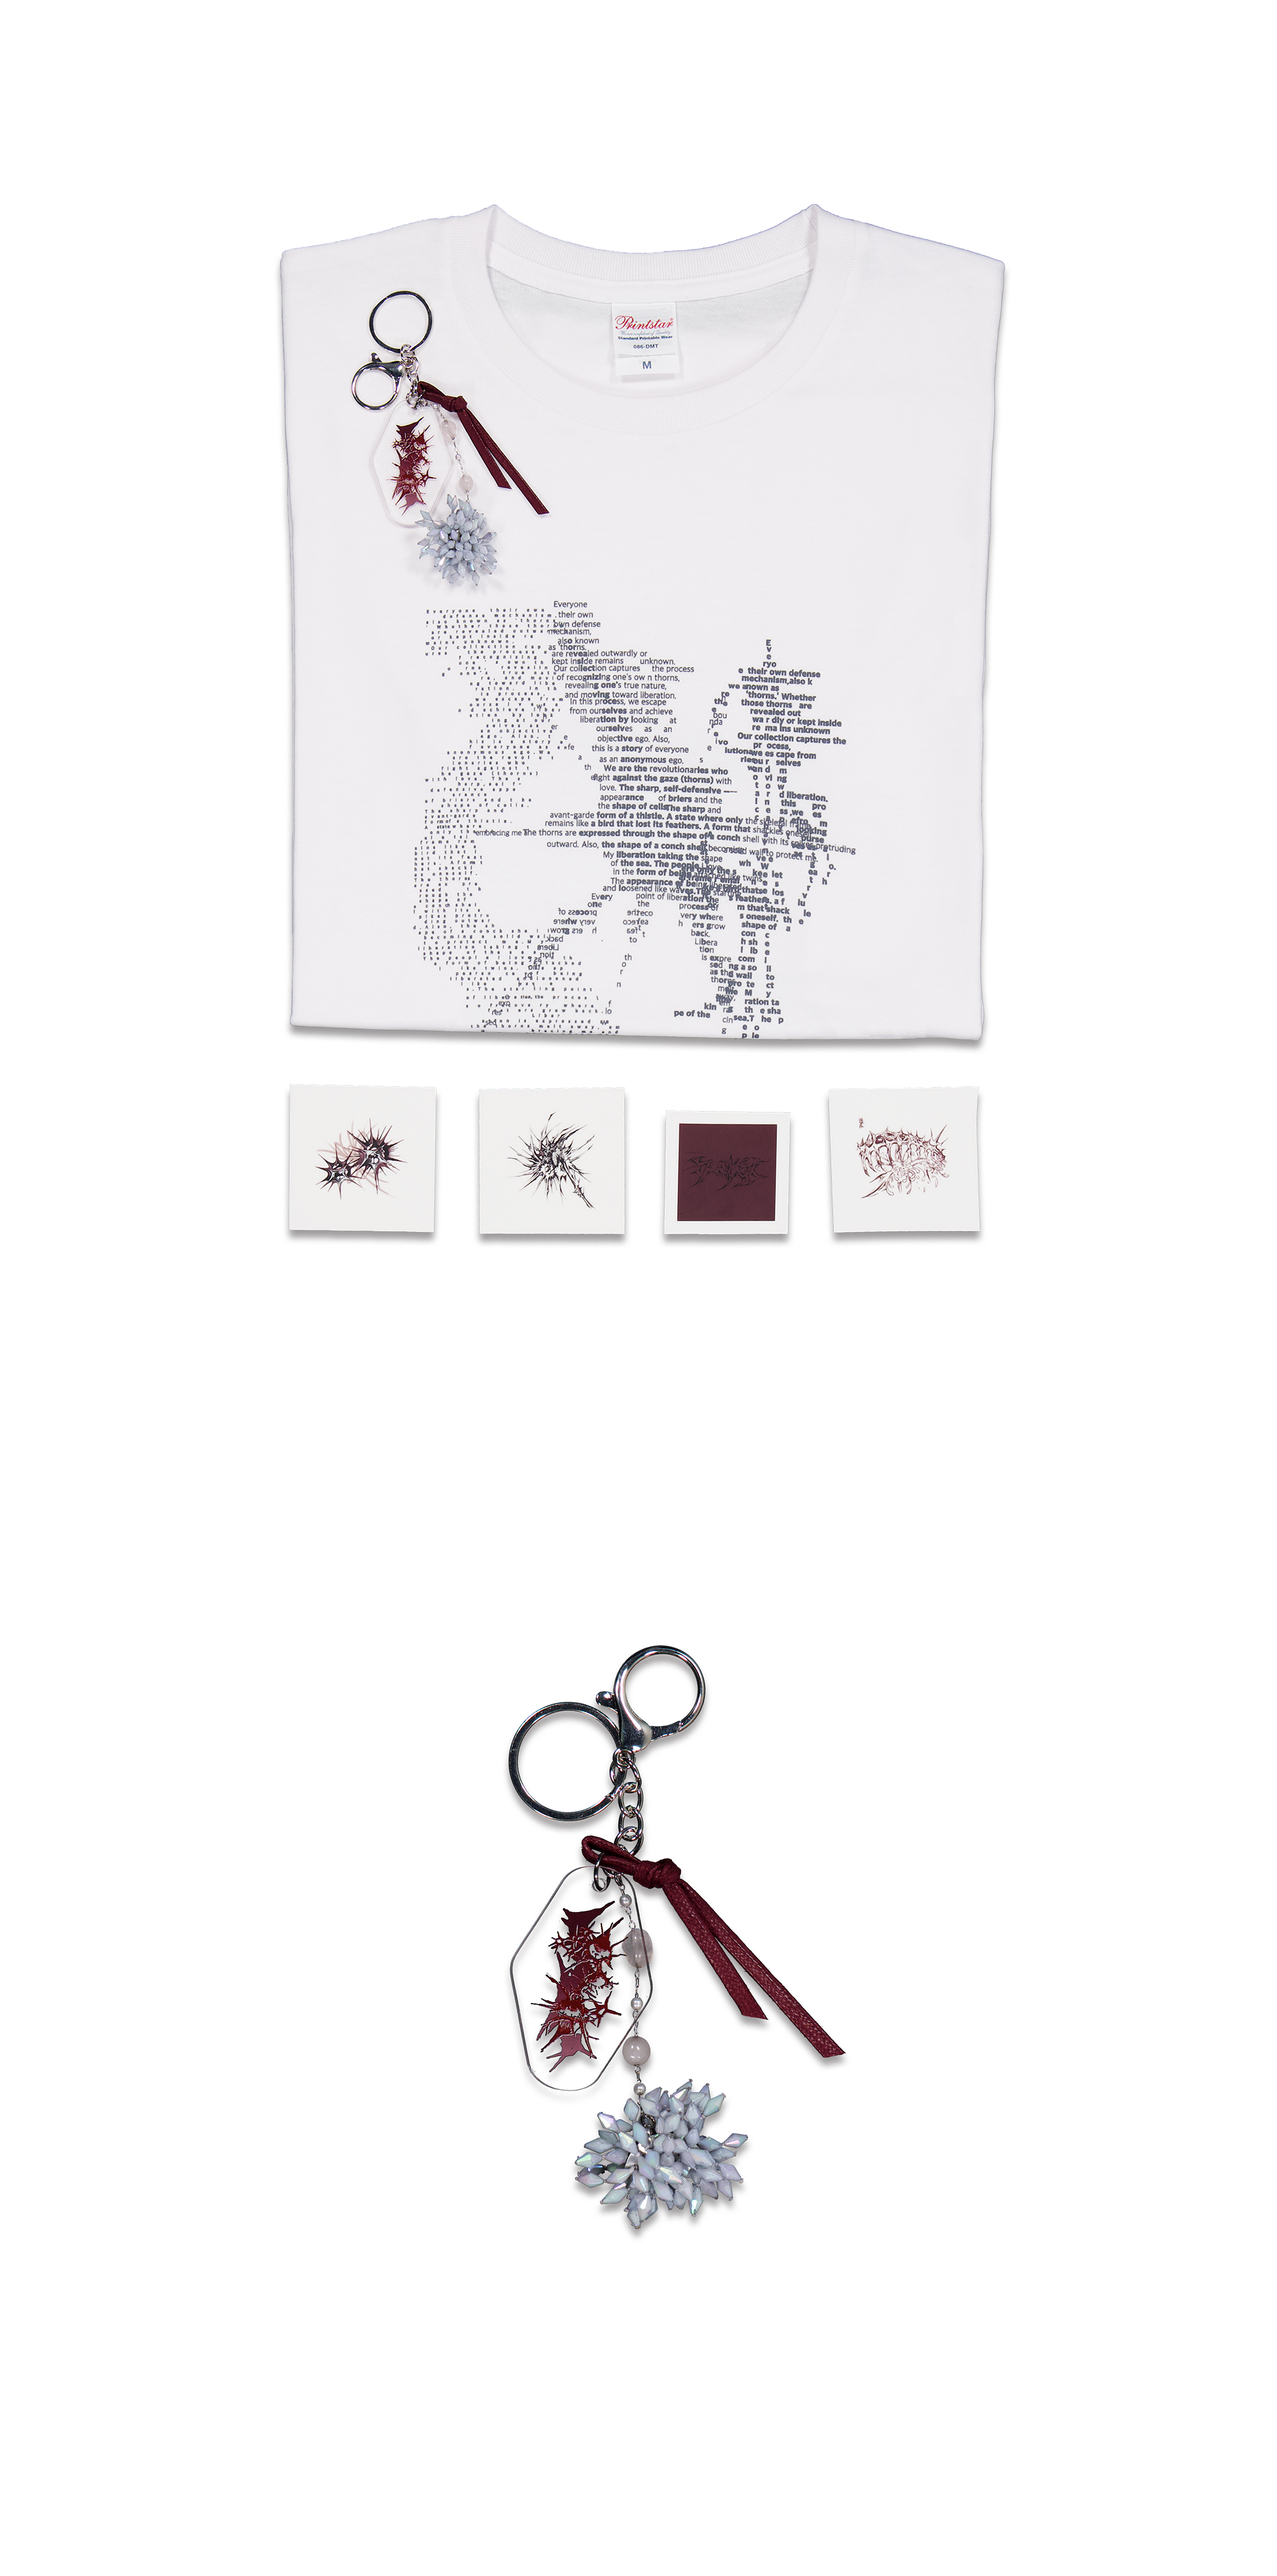
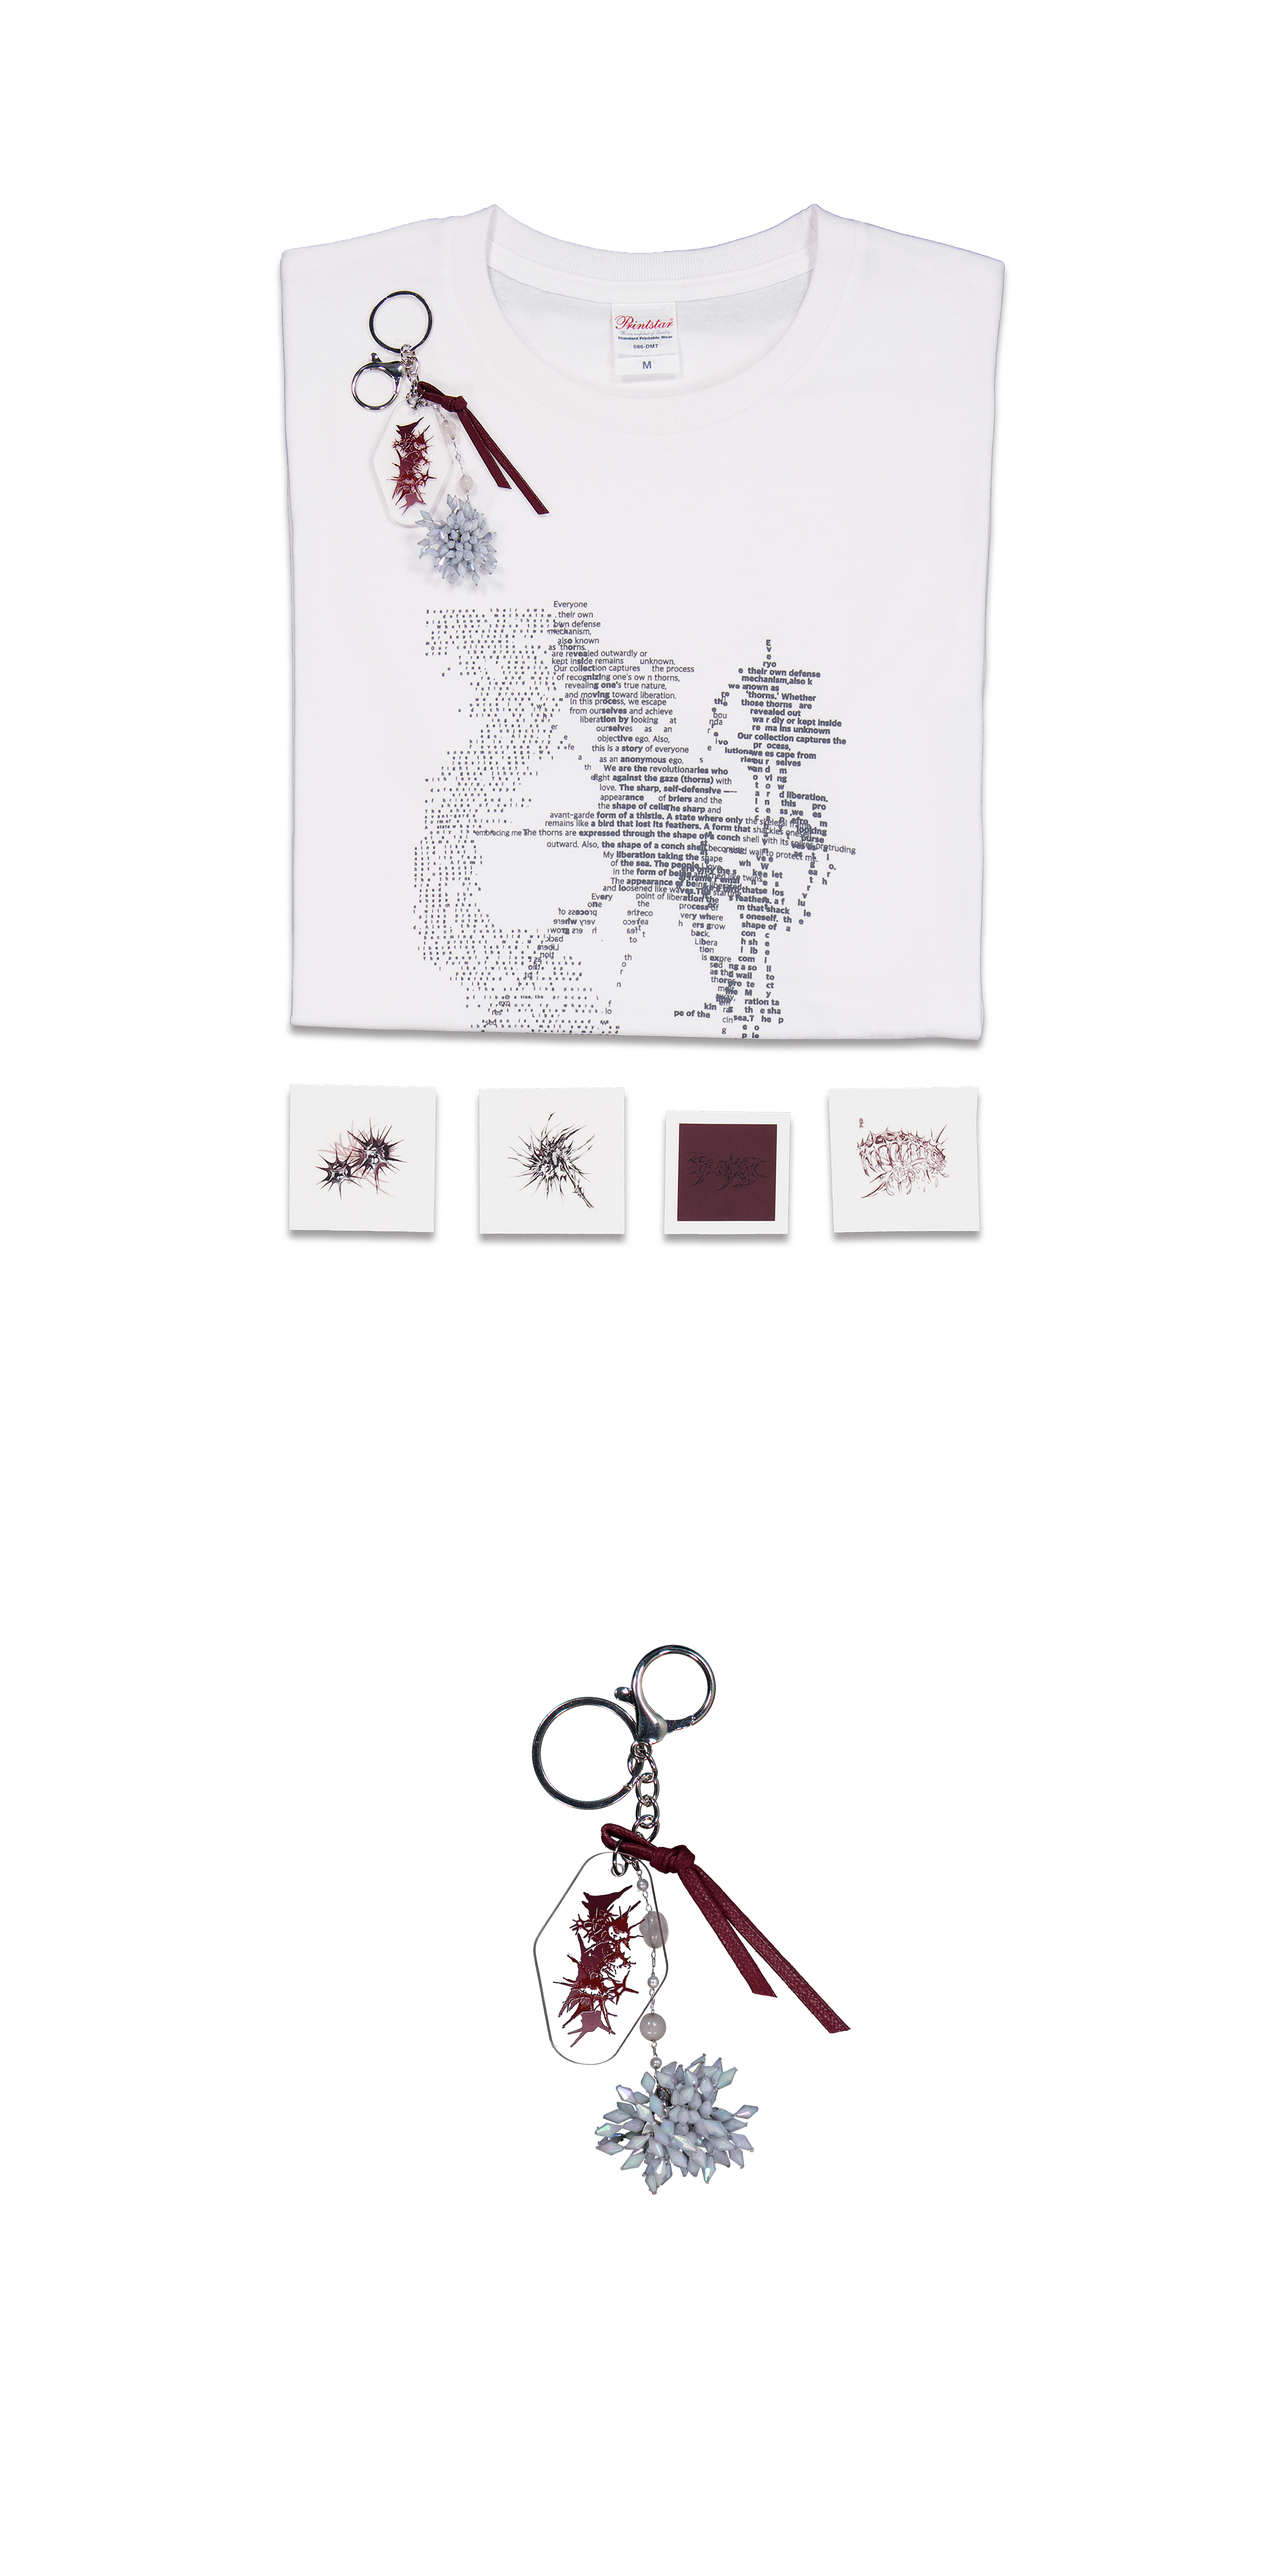
Update store checkout notices

Changed region(s): [[0.4036, 0.624, 0.6831, 0.8736]]

diff --git a/src/pages/StoreDetailPage.jsx b/src/pages/StoreDetailPage.jsx
@@ -6,7 +6,6 @@ import { getStoreProductDetail } from '../data/storeProductDetails';
 
 // 환경 변수에서 API URL 가져오기
 const API_URL = import.meta.env.VITE_API_URL || '';
-
 const StoreDetailPage = () => {
   const { itemId } = useParams();
   const [item, setItem] = useState(null);
@@ -178,7 +177,7 @@ const StoreDetailPage = () => {
 
       {/* Product Detail Content */}
       <div className="mx-auto w-full max-w-7xl px-4 py-6 md:py-12">
-        <div className="grid grid-cols-1 gap-8 md:grid-cols-[minmax(0,1fr)_minmax(360px,520px)] md:gap-16 lg:gap-20">
+        <div className="grid grid-cols-1 gap-8 md:grid-cols-[minmax(0,1fr)_minmax(320px,460px)] md:gap-12 lg:gap-16">
           {/* Main Product Image */}
           <div className="w-full md:col-start-1 md:row-start-1">
             <div className="w-full overflow-hidden bg-gray-100">
@@ -196,13 +195,13 @@ const StoreDetailPage = () => {
           </div>
 
           {/* Product Info */}
-          <aside className="w-full md:col-start-2 md:row-start-1 md:sticky md:top-28 md:self-start">
+          <aside className="w-full md:col-start-2 md:row-start-1 md:sticky md:top-24 md:max-h-[calc(100vh-7rem)] md:self-start md:overflow-y-auto md:pr-2">
             <div className="bg-white">
-              <h1 className="text-2xl md:text-3xl font-medium leading-tight text-black mb-3">{item.name}</h1>
-              <p className="text-lg md:text-xl text-gray-800 mb-7">{Number(item.price).toLocaleString()} ₩</p>
+              <h1 className="mb-2 text-2xl font-medium leading-tight text-black md:text-[26px]">{item.name}</h1>
+              <p className="mb-5 text-lg text-gray-800">{Number(item.price).toLocaleString()} ₩</p>
 
               {hasDescription && (
-                <div className="mb-8 space-y-3 text-sm leading-6 text-gray-700 md:text-base md:leading-7">
+                <div className="mb-5 space-y-2 text-sm leading-6 text-gray-700">
                   {productDetail.description.map((text) => (
                     <p key={text}>{text}</p>
                   ))}
@@ -210,11 +209,11 @@ const StoreDetailPage = () => {
               )}
 
               {hasDetails && (
-                <div className="mb-8 border-t border-gray-200 pt-5">
-                  <h2 className="mb-4 text-sm font-semibold tracking-[0.18em] text-black">DETAIL</h2>
-                  <dl className="space-y-3 text-sm text-gray-700">
+                <div className="mb-5 border-t border-gray-200 pt-4">
+                  <h2 className="mb-3 text-xs font-semibold tracking-[0.18em] text-black">DETAIL</h2>
+                  <dl className="space-y-2 text-sm text-gray-700">
                     {productDetail.details.map((detail) => (
-                      <div key={detail.label} className="grid grid-cols-[120px_1fr] gap-4">
+                      <div key={detail.label} className="grid grid-cols-[100px_1fr] gap-3">
                         <dt className="font-medium text-black">{detail.label}</dt>
                         <dd>{detail.value}</dd>
                       </div>
@@ -224,13 +223,13 @@ const StoreDetailPage = () => {
               )}
 
               {hasOptions && (
-                <div className="mb-8">
-                  <p className="mb-3 text-gray-700">{productDetail.optionLabel || '옵션'}별 수량</p>
-                  <div className="space-y-3">
+                <div className="mb-5">
+                  <p className="mb-2 text-sm text-gray-700">{productDetail.optionLabel || '옵션'}별 수량</p>
+                  <div className="space-y-2">
                     {productDetail.options.map((option) => (
                       <div
                         key={option.value}
-                        className="flex items-center justify-between border border-gray-200 px-4 py-3"
+                        className="flex items-center justify-between border border-gray-200 px-4 py-2.5"
                       >
                         <span className="text-sm font-medium text-black">{option.label}</span>
                         <div className="inline-flex h-9 overflow-hidden rounded-full border border-gray-300 bg-white">
@@ -267,8 +266,8 @@ const StoreDetailPage = () => {
               )}
 
               {!hasOptions && (
-                <div className="mb-8">
-                  <p className="text-gray-700 mb-3">수량</p>
+                <div className="mb-5">
+                  <p className="mb-2 text-sm text-gray-700">수량</p>
                   <div className="inline-flex h-11 overflow-hidden rounded-full border border-gray-300 bg-white shadow-[0_1px_10px_rgba(0,0,0,0.04)]">
                     <button
                       type="button"
@@ -298,7 +297,7 @@ const StoreDetailPage = () => {
                 </div>
               )}
 
-              <div className="mb-5 flex items-center justify-between border-t border-gray-200 pt-5 text-sm">
+              <div className="mb-4 flex items-center justify-between border-t border-gray-200 pt-4 text-sm">
                 <span className="text-gray-500">예상 주문금액</span>
                 <span className="text-lg font-medium text-black">
                   {estimatedTotalPrice.toLocaleString()} ₩

diff --git a/src/data/depositAccounts.js b/src/data/depositAccounts.js
@@ -1,36 +1,11 @@
 export const STORE_CONTACTS = ['010-3889-3947', '010-5153-3833'];
 
-export const DEPOSIT_ACCOUNTS = {
-  officialGoods: {
-    label: '공식굿즈',
-    bankName: '국민은행',
-    accountNumber: '94320200717319',
-    holder: '이이학',
-  },
-  thornBloomGoods: {
-    label: '키링, 스티커, 티셔츠',
-    bankName: '카카오뱅크',
-    accountNumber: '3333189851301',
-    holder: '이승현',
-  },
+export const STORE_DEPOSIT_ACCOUNT = {
+  bankName: '국민은행',
+  accountNumber: '43760201488414',
+  holder: '신영록',
 };
 
-const isOfficialGoodsItem = (item) => {
-  const itemName = `${item?.name || item?.itemName || ''}`.toLowerCase();
-  const creator = `${item?.creator || ''}`.toLowerCase();
-  const teamName = `${item?.teamName || ''}`.toLowerCase();
-
-  return item?.id === 1
-    || item?.itemId === 1
-    || itemName.includes('echo bag')
-    || itemName.includes('reversible')
-    || creator.includes('official')
-    || teamName.includes('official');
-};
-
-export const getDepositAccountForItems = (items = []) => {
-  const hasOfficialGoods = items.some(isOfficialGoodsItem);
-  return hasOfficialGoods ? DEPOSIT_ACCOUNTS.officialGoods : DEPOSIT_ACCOUNTS.thornBloomGoods;
-};
+export const getDepositAccountForItems = () => STORE_DEPOSIT_ACCOUNT;
 
 export const formatStoreContacts = () => STORE_CONTACTS.join(' / ');

diff --git a/src/pages/StorePage.jsx b/src/pages/StorePage.jsx
@@ -70,7 +70,7 @@ const StorePage = () => {
           ) : (
             <div className="grid grid-cols-2 sm:grid-cols-2 lg:grid-cols-4 gap-3 md:gap-x-[32px] lg:gap-x-[44px] md:gap-y-[40px]">
               {items.map(item => (
-                <div key={item.id} className="item-card">
+                <div key={item.id} className="item-card text-center">
                   <Link to={`/store/item/${item.id}`}>
                     <div className="w-full aspect-square overflow-hidden mb-3 bg-gray-100">
                       <img 
@@ -84,9 +84,9 @@ const StorePage = () => {
                         }}
                       />
                     </div>
-                    <h3 className="text-base md:text-lg font-medium text-black truncate">{item.name}</h3>
+                    <h3 className="text-base md:text-lg font-medium text-black truncate text-center">{item.name}</h3>
                   </Link>
-                  <p className="text-gray-800 text-sm md:text-base">{item.price ? Number(item.price).toLocaleString() : '0'} ₩</p>
+                  <p className="text-center text-gray-800 text-sm md:text-base">{item.price ? Number(item.price).toLocaleString() : '0'} ₩</p>
                 </div>
               ))}
             </div>

diff --git a/src/pages/CheckoutPage.jsx b/src/pages/CheckoutPage.jsx
@@ -230,6 +230,7 @@ const CheckoutPage = () => {
             <div className="mb-6 md:mb-0">
               <h2 className="text-lg md:text-xl font-semibold mb-3">유의사항:</h2>
               <div className="space-y-1 md:space-y-2 text-sm md:text-base text-gray-700">
+                <p className="text-blue-600">가급적으로 쇼당일 부스에서 픽업부탁드리며 쇼 이후에는 예술디자인대학 6층 과사무실에서 픽업 가능합니다.</p>
                 <p>입금 금액이 다를 경우, 주문이 취소될 수 있으니 정확한 금액을 입금해 주시기 바랍니다.</p>
                 <p>입금 확인 또는 주문 관련 문의는 [{storeContact}]로 연락해주세요.</p>
               </div>
